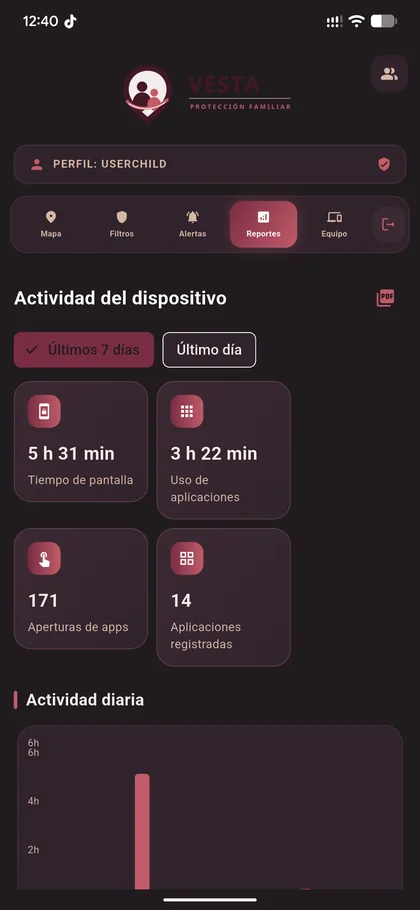
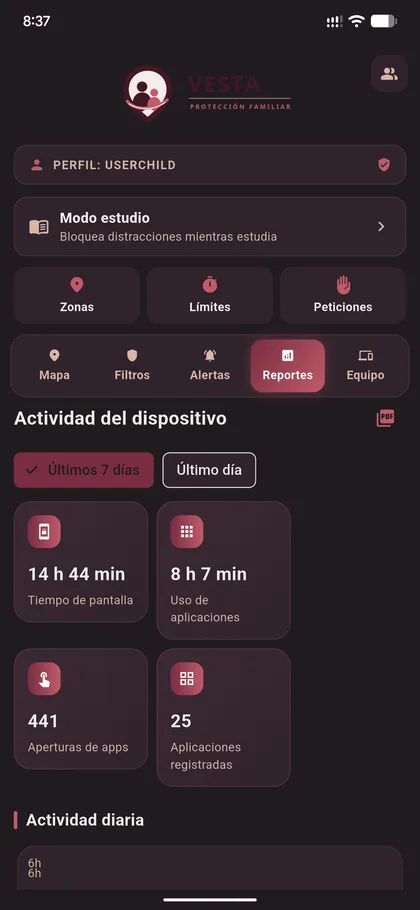
Web: capturas reales de la versión 1.1
Reemplaza las capturas de Vesta Padre y Vesta Tracker por las de la 1.1 y
añade las de QR, zonas seguras, modo estudio, límites, peticiones, SOS,
pedir permiso y Qué comparte Vesta en funciones, plataforma y guía.
El mapa y el código QR van difuminados.

diff --git a/src/content/features.ts b/src/content/features.ts
@@ -102,6 +102,7 @@ const es: Feature[] = [
   },
   {
     id: "zonas-seguras",
+    screenshot: phone("zonas-seguras", "Pantalla Zonas seguras de Vesta Padre con el botón Nueva zona", "Vesta Padre · Zonas seguras"),
     isNew: true,
     title: "Zonas seguras",
     short: "Aviso cuando el menor llega o sale de casa, del colegio o de otro lugar.",
@@ -120,6 +121,7 @@ const es: Feature[] = [
   },
   {
     id: "sos",
+    screenshot: tablet("rastreo-activo", "Pantalla principal de Vesta Tracker con el botón rojo SOS de emergencia", "Vesta Tracker · Botón SOS"),
     isNew: true,
     title: "Botón SOS",
     short: "Un aviso de emergencia desde el teléfono del menor, con su ubicación.",
@@ -176,6 +178,7 @@ const es: Feature[] = [
   },
   {
     id: "modo-estudio",
+    screenshot: phone("modo-estudio", "Pantalla Modo estudio con duraciones de 30 min, 1 hora y 2 horas, horarios automáticos y apps permitidas", "Vesta Padre · Modo estudio"),
     isNew: true,
     title: "Modo estudio",
     short: "Solo las apps que elijas, durante un rato o en un horario fijo.",
@@ -193,6 +196,7 @@ const es: Feature[] = [
   },
   {
     id: "limites-de-tiempo",
+    screenshot: phone("limites", "Pantalla Límites de tiempo con la lista de aplicaciones y su uso de hoy", "Vesta Padre · Límites de tiempo"),
     isNew: true,
     title: "Límites de tiempo",
     short: "Un máximo diario para cada aplicación.",
@@ -212,6 +216,7 @@ const es: Feature[] = [
   },
   {
     id: "peticiones",
+    screenshot: tablet("pedir-permiso", "Pantalla Pedir permiso de Vesta Tracker para pedir una app o más tiempo, con mensaje opcional", "Vesta Tracker · Pedir permiso"),
     isNew: true,
     title: "Peticiones",
     short: "El menor pide más tiempo o desbloquear una app, y el tutor responde con un toque.",
@@ -244,7 +249,7 @@ const es: Feature[] = [
       "Depende de la versión de Android, del fabricante y de que el servicio de accesibilidad siga activo. Si se desactiva, el tutor recibe una alerta.",
     screenshot: phone(
       "filtros",
-      "Pantalla Control de contenido con lista negra y una regla de bloqueo de aplicación activa",
+      "Pantalla Control de contenido con búsqueda segura, bloqueo del DNS cifrado y lista negra",
       "Vesta Padre · Filtros",
     ),
   },
@@ -302,7 +307,7 @@ const es: Feature[] = [
     managedIn: "Vesta Padre y Vesta Tracker.",
     authorization: { android: ["Cámara (solo para leer el QR; opcional)"] },
     limits: "Desvincular un teléfono no borra por sí solo los datos históricos.",
-    screenshot: phone("panel-dispositivos", "Panel de control de Vesta Padre con un dispositivo vinculado", "Vesta Padre · Panel"),
+    screenshot: phone("vinculacion-qr", "Código QR de vinculación en Vesta Padre, con el código difuminado", "Vesta Padre · Vinculación por QR. El código se ha difuminado."),
   },
   {
     id: "privacidad-y-autorizaciones",
@@ -319,9 +324,9 @@ const es: Feature[] = [
     managedIn: "Se gestiona en Vesta Padre. Se respeta en Vesta Tracker.",
     authorization: {},
     screenshot: tablet(
-      "esperando-autorizacion",
-      "Vesta Tracker indicando que la ubicación no está autorizada",
-      "Vesta Tracker · Sin autorización no se recopila la ubicación.",
+      "que-comparte",
+      "Pantalla Qué comparte Vesta, donde el menor ve qué información reciben sus tutores y si está activa",
+      "Vesta Tracker · Qué comparte Vesta: el menor ve qué se recopila y qué no.",
     ),
   },
 ];
@@ -350,11 +355,12 @@ const en: Feature[] = [
     screenshot: phone(
       "ubicacion",
       "Tracking screen in Vesta Parent with a marker on the map and the Directions button",
-      "Vesta Parent · Map. The map background has been blurred to protect a real location.",
+      "Vesta Parent · Map (Spanish interface). The map background has been blurred to protect a real location.",
     ),
   },
   {
     id: "safe-zones",
+    screenshot: phone("zonas-seguras", "Safe zones screen in Vesta Parent with the New zone button", "Vesta Parent · Safe zones (Spanish interface)"),
     isNew: true,
     title: "Safe zones",
     short: "A notice when the minor arrives at or leaves home, school or another place.",
@@ -373,6 +379,7 @@ const en: Feature[] = [
   },
   {
     id: "sos",
+    screenshot: tablet("rastreo-activo", "Vesta Tracker home screen with the red SOS emergency button", "Vesta Tracker · SOS button (Spanish interface)"),
     isNew: true,
     title: "SOS button",
     short: "An emergency alert from the minor's phone, with their location.",
@@ -401,7 +408,7 @@ const en: Feature[] = [
     screenshot: phone(
       "estado-dispositivo",
       "Device status screen with battery and manufacturer, model and Android version",
-      "Vesta Parent · Device",
+      "Vesta Parent · Device (Spanish interface)",
     ),
   },
   {
@@ -424,11 +431,12 @@ const en: Feature[] = [
     screenshot: phone(
       "reportes",
       "Reports screen with screen time, app usage, opens and a daily activity chart",
-      "Vesta Parent · Reports",
+      "Vesta Parent · Reports (Spanish interface)",
     ),
   },
   {
     id: "study-mode",
+    screenshot: phone("modo-estudio", "Study mode screen with 30 min, 1 hour and 2 hour durations, automatic schedules and allowed apps", "Vesta Parent · Study mode (Spanish interface)"),
     isNew: true,
     title: "Study mode",
     short: "Only the apps you choose, for a while or on a fixed schedule.",
@@ -446,6 +454,7 @@ const en: Feature[] = [
   },
   {
     id: "time-limits",
+    screenshot: phone("limites", "Time limits screen listing apps and today's usage", "Vesta Parent · Time limits (Spanish interface)"),
     isNew: true,
     title: "Time limits",
     short: "A daily maximum for each app.",
@@ -465,6 +474,7 @@ const en: Feature[] = [
   },
   {
     id: "requests",
+    screenshot: tablet("pedir-permiso", "Vesta Tracker Ask permission screen to request an app or more time, with an optional message", "Vesta Tracker · Ask permission (Spanish interface)"),
     isNew: true,
     title: "Requests",
     short: "The minor asks for more time or to unlock an app; the guardian answers with one tap.",
@@ -497,8 +507,8 @@ const en: Feature[] = [
       "It depends on the Android version, the manufacturer and the accessibility service staying on. If it is turned off, the guardian gets an alert.",
     screenshot: phone(
       "filtros",
-      "Content control screen with a block list and an active app blocking rule",
-      "Vesta Parent · Filters",
+      "Content control screen with safe search, encrypted DNS blocking and a block list",
+      "Vesta Parent · Filters (Spanish interface)",
     ),
   },
   {
@@ -538,7 +548,7 @@ const en: Feature[] = [
     authorization: { purpose: P("en", "alerts"), android: ["Notifications"] },
     limits:
       "Alerts are not an emergency service and may be delayed if the phone is offline. Deleting an alert does not delete the location history or reports.",
-    screenshot: phone("alertas", "Alerts screen with battery notices", "Vesta Parent · Alerts"),
+    screenshot: phone("alertas", "Alerts screen with battery notices", "Vesta Parent · Alerts (Spanish interface)"),
   },
   {
     id: "profiles-and-linking",
@@ -555,7 +565,7 @@ const en: Feature[] = [
     managedIn: "Vesta Parent and Vesta Tracker.",
     authorization: { android: ["Camera (only to read the QR code; optional)"] },
     limits: "Unlinking a phone does not, by itself, delete historical data.",
-    screenshot: phone("panel-dispositivos", "Vesta Parent dashboard with a linked device", "Vesta Parent · Dashboard"),
+    screenshot: phone("vinculacion-qr", "Linking QR code in Vesta Parent, with the code blurred", "Vesta Parent · QR linking (Spanish interface). The code has been blurred."),
   },
   {
     id: "privacy-and-authorisations",
@@ -572,9 +582,9 @@ const en: Feature[] = [
     managedIn: "Managed in Vesta Parent. Respected by Vesta Tracker.",
     authorization: {},
     screenshot: tablet(
-      "esperando-autorizacion",
-      "Vesta Tracker showing that location is not authorised",
-      "Vesta Tracker · Without authorisation, location is not collected.",
+      "que-comparte",
+      "What Vesta shares screen, where the minor sees what information their guardians receive and whether it is active",
+      "Vesta Tracker · What Vesta shares: the minor sees what is and is not collected (Spanish interface).",
     ),
   },
 ];

diff --git a/src/content/legal.ts b/src/content/legal.ts
@@ -147,6 +147,7 @@ export const guideFigures: Record<Locale, Record<string, Figure[]>> = {
     ],
     "desde-vesta-padre": [
       { src: "/img/padre/registro-menor", alt: "Formulario para añadir el perfil de un menor en Vesta Padre", kind: "phone", sizes: [420, 840], caption: "Crear el perfil del menor" },
+      { src: "/img/padre/vinculacion-qr", alt: "Código QR de vinculación en Vesta Padre, con el código difuminado", kind: "phone", sizes: [420, 840], caption: "Código QR de vinculación. El código se ha difuminado." },
     ],
     "6-panel-de-vesta-padre": [
       { src: "/img/padre/panel-dispositivos", alt: "Panel de control con un dispositivo vinculado", kind: "phone", sizes: [420, 840], caption: "Panel de control" },
@@ -155,6 +156,36 @@ export const guideFigures: Record<Locale, Record<string, Figure[]>> = {
     "bloquear-una-aplicacion": [
       { src: "/img/padre/filtros", alt: "Pantalla de filtros con una regla de bloqueo de aplicación", kind: "phone", sizes: [420, 840], caption: "Reglas de bloqueo" },
     ],
+    "desde-vesta-tracker": [
+      { src: "/img/tracker/vinculacion", alt: "Pantalla de vinculación de Vesta Tracker con el campo de código y el botón Escanear código QR", kind: "tablet", sizes: [800, 1600], caption: "Vincular desde Vesta Tracker" },
+    ],
+    "perfiles": [
+      { src: "/img/padre/editar-perfil", alt: "Pantalla Editar perfil con nombre, edad y color identificador", kind: "phone", sizes: [420, 840], caption: "Editar el perfil del menor" },
+    ],
+    "ubicacion": [
+      { src: "/img/padre/ubicacion", alt: "Mapa de rastreo en tiempo real con el botón Cómo llegar", kind: "phone", sizes: [420, 840], caption: "Mapa. El fondo se ha difuminado para proteger una ubicación real." },
+    ],
+    "modo-estudio": [
+      { src: "/img/padre/modo-estudio", alt: "Pantalla Modo estudio con duraciones, horarios automáticos y apps permitidas", kind: "phone", sizes: [420, 840], caption: "Modo estudio" },
+    ],
+    "zonas-seguras": [
+      { src: "/img/padre/zonas-seguras", alt: "Pantalla Zonas seguras con el botón Nueva zona", kind: "phone", sizes: [420, 840], caption: "Zonas seguras" },
+    ],
+    "limites-de-tiempo": [
+      { src: "/img/padre/limites", alt: "Lista de aplicaciones con su límite diario y el uso de hoy", kind: "phone", sizes: [420, 840], caption: "Límites de tiempo" },
+    ],
+    "peticiones": [
+      { src: "/img/padre/peticiones", alt: "Historial de peticiones del menor en Vesta Padre", kind: "phone", sizes: [420, 840], caption: "Peticiones recibidas" },
+    ],
+    "boton-de-emergencia-sos": [
+      { src: "/img/tracker/rastreo-activo", alt: "Pantalla principal de Vesta Tracker con el botón SOS", kind: "tablet", sizes: [800, 1600], caption: "Botón SOS en Vesta Tracker" },
+    ],
+    "pedir-permiso": [
+      { src: "/img/tracker/pedir-permiso", alt: "Pantalla Pedir permiso de Vesta Tracker", kind: "tablet", sizes: [800, 1600], caption: "Pedir permiso" },
+    ],
+    "que-comparte-vesta": [
+      { src: "/img/tracker/que-comparte", alt: "Pantalla Qué comparte Vesta", kind: "tablet", sizes: [800, 1600], caption: "Qué comparte Vesta" },
+    ],
   },
   en: {
     "3-1-vesta-parent": [
@@ -162,6 +193,7 @@ export const guideFigures: Record<Locale, Record<string, Figure[]>> = {
     ],
     "from-vesta-parent": [
       { src: "/img/padre/registro-menor", alt: "Form to add a minor's profile in Vesta Parent", kind: "phone", sizes: [420, 840], caption: "Creating the minor's profile (Spanish interface)" },
+      { src: "/img/padre/vinculacion-qr", alt: "Linking QR code in Vesta Parent, with the code blurred", kind: "phone", sizes: [420, 840], caption: "Linking QR code (Spanish interface). The code has been blurred." },
     ],
     "6-vesta-parent-dashboard": [
       { src: "/img/padre/panel-dispositivos", alt: "Dashboard with a linked device", kind: "phone", sizes: [420, 840], caption: "Dashboard (Spanish interface)" },
@@ -169,6 +201,36 @@ export const guideFigures: Record<Locale, Record<string, Figure[]>> = {
     alerts: [{ src: "/img/padre/alertas", alt: "List of alerts in Vesta Parent", kind: "phone", sizes: [420, 840], caption: "Alerts (Spanish interface)" }],
     "block-an-app": [
       { src: "/img/padre/filtros", alt: "Filters screen with an app blocking rule", kind: "phone", sizes: [420, 840], caption: "Blocking rules (Spanish interface)" },
+    ],
+    "from-vesta-tracker": [
+      { src: "/img/tracker/vinculacion", alt: "Vesta Tracker linking screen with the code field and the Scan QR code button", kind: "tablet", sizes: [800, 1600], caption: "Linking from Vesta Tracker (Spanish interface)" },
+    ],
+    "profiles": [
+      { src: "/img/padre/editar-perfil", alt: "Edit profile screen with name, age and identifying colour", kind: "phone", sizes: [420, 840], caption: "Editing the minor's profile (Spanish interface)" },
+    ],
+    "location": [
+      { src: "/img/padre/ubicacion", alt: "Real-time tracking map with the Directions button", kind: "phone", sizes: [420, 840], caption: "Map (Spanish interface). The background has been blurred to protect a real location." },
+    ],
+    "study-mode": [
+      { src: "/img/padre/modo-estudio", alt: "Study mode screen with durations, automatic schedules and allowed apps", kind: "phone", sizes: [420, 840], caption: "Study mode (Spanish interface)" },
+    ],
+    "safe-zones": [
+      { src: "/img/padre/zonas-seguras", alt: "Safe zones screen with the New zone button", kind: "phone", sizes: [420, 840], caption: "Safe zones (Spanish interface)" },
+    ],
+    "time-limits": [
+      { src: "/img/padre/limites", alt: "List of apps with their daily limit and today's usage", kind: "phone", sizes: [420, 840], caption: "Time limits (Spanish interface)" },
+    ],
+    "requests": [
+      { src: "/img/padre/peticiones", alt: "History of the minor's requests in Vesta Parent", kind: "phone", sizes: [420, 840], caption: "Requests received (Spanish interface)" },
+    ],
+    "emergency-sos-button": [
+      { src: "/img/tracker/rastreo-activo", alt: "Vesta Tracker home screen with the SOS button", kind: "tablet", sizes: [800, 1600], caption: "SOS button in Vesta Tracker (Spanish interface)" },
+    ],
+    "ask-for-permission": [
+      { src: "/img/tracker/pedir-permiso", alt: "Vesta Tracker Ask permission screen", kind: "tablet", sizes: [800, 1600], caption: "Ask for permission (Spanish interface)" },
+    ],
+    "what-vesta-shares": [
+      { src: "/img/tracker/que-comparte", alt: "What Vesta shares screen", kind: "tablet", sizes: [800, 1600], caption: "What Vesta shares (Spanish interface)" },
     ],
   },
 };

diff --git a/src/views/PlatformView.tsx b/src/views/PlatformView.tsx
@@ -34,7 +34,11 @@ const copy = {
     ],
     shots: [
       ["panel-dispositivos", "Panel"],
+      ["vinculacion-qr", "Vinculación por QR"],
       ["ubicacion", "Mapa"],
+      ["zonas-seguras", "Zonas seguras"],
+      ["modo-estudio", "Modo estudio"],
+      ["limites", "Límites de tiempo"],
       ["reportes", "Reportes"],
       ["alertas", "Alertas"],
     ],
@@ -106,7 +110,11 @@ const copy = {
     ],
     shots: [
       ["panel-dispositivos", "Dashboard"],
+      ["vinculacion-qr", "QR linking"],
       ["ubicacion", "Map"],
+      ["zonas-seguras", "Safe zones"],
+      ["modo-estudio", "Study mode"],
+      ["limites", "Time limits"],
       ["reportes", "Reports"],
       ["alertas", "Alerts"],
     ],
